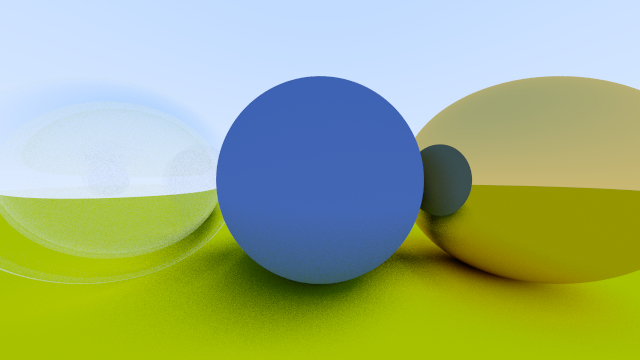
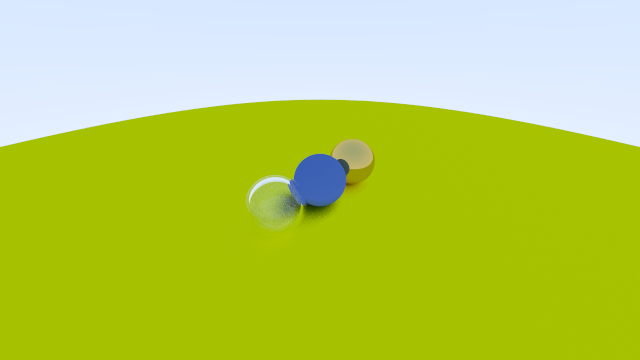
Change view point

diff --git a/src/main.cc b/src/main.cc
@@ -46,6 +46,10 @@ int main() {
     camera.image_height = 360;
     camera.samples_per_pixel = 100;
     camera.max_depth = 50;
+    camera.v_fov = 90;
+    camera.look_from = ohtoai::math::make_point(-2, 2, 1);
+    camera.look_at = ohtoai::math::make_point(0, 0, -1);
+    camera.view_up = ohtoai::math::make_vector(0, 1, 0);
 
 #ifdef EXPORT_EASYX
     initgraph(camera.image_width, camera.image_height);

diff --git a/README.md b/README.md
@@ -9,6 +9,7 @@
 ## History
 |             Title             |                     Image                      |
 | ----------------------------- | ---------------------------------------------- |
+| Change view point             | ![](doc/img/change_view_point.png)             |
 | Refract Dielectric            | ![](doc/img/refract_dielectric.png)            |
 | Metal with fuzz               | ![](doc/img/metal_with_fuzz.png)               |
 | Metal and Lambertian material | ![](doc/img/metal_and_lambertian_material.png) |
